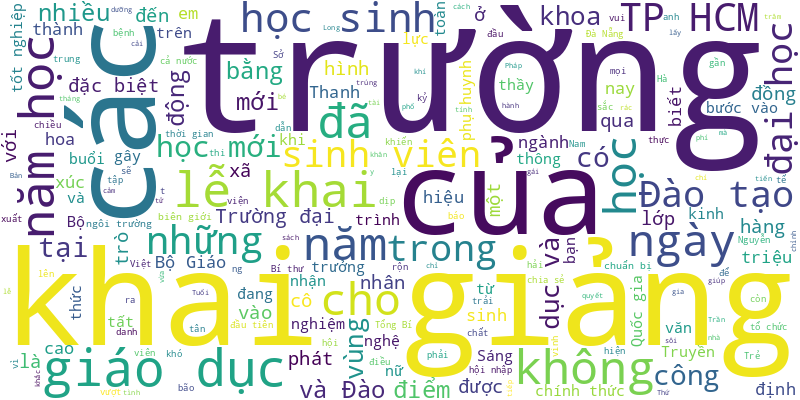
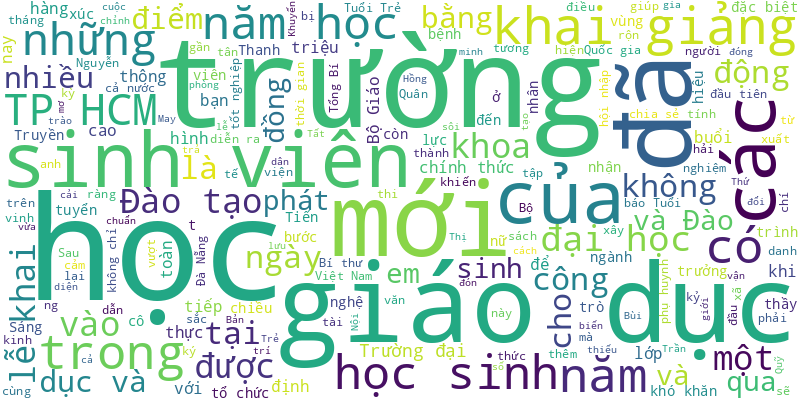
🍀 = 30%

diff --git a/README.md b/README.md
@@ -1,6 +1,13 @@
 # Tuoi Tre RSS 
 
 ## Giáo dục 
+- Học sinh, sinh viên không chỉ được hỗ trợ tối thiểu 50% mức đóng mà còn hưởng nhiều quyền lợi khi chữa bệnh, có người được chi trả cả tỉ đồng.
+- Thông tin này được TS Bùi Hồng Quân - trưởng khoa giáo dục mầm non (Trường ĐH Sư phạm TP.HCM) - trả lời phóng viên báo Tuổi Trẻ tại buổi đón sinh viên K51 do khoa này tổ chức, chiều 7-9.
+- Sau hơn một tháng xét tuyển, ký túc xá Cỏ May (TP.HCM) vừa chính thức công bố danh sách 107 tân sinh viên có hoàn cảnh khó khăn được tiếp nhận hỗ trợ lưu trú và học tập trong năm học 2025-2026.
+- Tiến sĩ Bùi Thị Hồng Tiến - Giám đốc Quỹ Khuyến học - khuyến tài tỉnh Khánh Hòa - đã hàng chục năm vận động giúp đỡ học sinh, sinh viên khó khăn, tiếp thêm động lực để các bạn xây tiếp ước mơ.
+- Nội dung giáo dục giới tính, phòng chống xâm hại trẻ em đã bị một số TikToker biến thành trào lưu giải trí phản cảm.
+- Thực tế diễn ra trong kỳ tuyển sinh đại học 2025 là minh chứng rõ ràng rằng một cuộc đổi mới nếu thiếu chuẩn bị và thực tiễn có thể dẫn đến thất bại toàn diện.
+- Cùng với từng bước thăng trầm của dân tộc, giáo dục Việt Nam luôn là điểm tựa để giữ lửa tri thức, hun đúc ý chí và kiến tạo tương lai.
 - Chiều 6-9, Công viên APEC (Đà Nẵng) sôi động với hàng trăm bạn trẻ và phụ huynh tham gia Ngày hội du học Nhật Bản tại Đà Nẵng.
 - Đổi mới giáo dục không chỉ là cải cách, chỉnh sửa mà phải có tính đột phá - Thứ trưởng Bộ Giáo dục và Đào tạo chia sẻ.
 - Hình ảnh danh sách học sinh khó khăn được nhận quà được trình chiếu công khai trong lễ khai trường 5-9 khiến nhiều phụ huynh bức xúc.
@@ -44,15 +51,30 @@
 - Khai giảng ngày 4-9 tại Bệnh viện Ung bướu TP.HCM, lớp học đặc biệt gây xúc động mạnh cho những người dõi theo các bé.
 - Công văn “không nhận hoa chúc mừng dưới mọi hình thức” tại lễ khai giảng của Sở Giáo dục và Đào tạo TP.HCM đang tạo nên làn sóng tranh luận trái chiều.
 - "Năm học mới em có cặp sách mới, vở mới và tiền mua quần áo mới. Em hứa sẽ học tập tốt, cuối năm có giấy khen".
-- Cô trò điểm trường Tăk Pổ, ngôi trường từng "gây bão" trên mạng xã hội với lễ khai giảng mộc mạc, đơn sơ năm 2019, đang tất bật trang trí trường lớp chuẩn bị cho lễ khai giảng.
-- Hòa chung không khí chuẩn bị lễ khai giảng đặc biệt năm học mới 2025-2026, ngày 4-9 trường học tại các xã vùng biên giới Việt - Lào của tỉnh Thanh Hóa tất bật chuẩn bị cơ sở vật chất, hướng dẫn học sinh các trò chơi vui tươi bước vào năm học mới.
-- Hàng ngàn học sinh, phụ huynh ở Hà Nội vừa được chui địa đạo và trải nghiệm các không gian hiểu biết, tử tế, trưởng thành, biết ơn, hạnh phúc và tỉnh thức, nhân dịp khai giảng năm học mới.
-- Ngày Võ Mộng Hoài Tâm biết tin mình đạt danh hiệu thủ khoa tốt nghiệp của Trường đại học Công nghiệp TP.HCM, cô gái nhỏ đến từ vùng đất biên giới Tân Hưng (Long An cũ) đã xúc động đến rơi nước mắt.
-- Ngày 4-9, TP.HCM khánh thành 5 ngôi trường mới ở nhiều xã vùng ven của TP với kinh phí mỗi ngôi trường lên đến hàng trăm tỉ đồng.
-- Sở Giáo dục và Đào tạo TP.HCM ra công văn “không nhận hoa chúc mừng dưới mọi hình thức” tại lễ khai giảng, Hiệp hội Hoa Đà Lạt kiến nghị vì cho rằng gây thiệt hại cho ngành hoa.
-- Trường vùng biên giới Đắk Lắk đang tập trung mọi nguồn lực chuẩn bị cho lễ khai giảng đặc biệt nhân dịp 80 năm ngày thành lập Bộ Quốc gia giáo dục.
 ![Edu](Edu.png)
 ## Thời Sự 
+- Rạng sáng 8-9, cường độ bão số 7 (Tapah) tiếp tục mạnh lên đầu cấp 11, giật cấp 13. Dự báo ngày hôm nay, bão đổ bộ vào Trung Quốc. Từ ngày mai, trung du và miền núi Bắc Bộ mưa lớn do hoàn lưu sau bão.
+- Gần 80.000 người nghỉ việc đã được thanh toán chế độ theo nghị định 178; Doanh nghiệp liên quan bà Trương Mỹ Lan tiếp đà lỗ lớn...
+- Hôm nay 8-9, thời tiết Bắc Bộ ngày nắng nhưng từ chiều tối mưa do ảnh hưởng bão số 7. Nam Bộ duy trì mưa rào, có nơi mưa to.
+- Clip cán bộ cảnh sát giao thông Công an TP.HCM hỗ trợ mở đường để xe chở thai phụ vỡ ối kịp đến bệnh viện lan truyền trên mạng xã hội nhận "cơn mưa lời khen".
+- Mạng xã hội đang lan truyền một đoạn clip người phụ nữ mặc áo blouse trắng tấn công khách hàng tại một phòng khám nha khoa (TP.HCM).
+- Nhiều nước đang áp dụng công nghệ theo dõi GPS để quản lý trẻ vị thành niên phạm pháp thay vì giam giữ, nhưng biện pháp này đang gây tranh cãi về hiệu quả và tác động tâm lý.
+- Theo kế hoạch, ngày 25-9 tới các đơn vị sẽ tổ chức bay hiệu chuẩn đường băng số 1 sân bay Long Thành, chuẩn bị cho chuyến bay kỹ thuật vào ngày 19-12 tới.
+- Mưa lớn nhiều ngày qua khiến nhiều khu vực tại tỉnh Đắk Lắk ngập sâu. Chính quyền địa phương, bộ đội lên phương án ứng phó để giảm nhẹ thiệt hại.
+- Mặc dù thời tiết không có mưa, song nước suối ở Nghệ An bỗng đổi màu vàng đục chưa rõ nguyên nhân khiến người dân lo lắng.
+- Nhân chứng cho hay chiếc ô tô con màu trắng, biển số Hà Nội sau vụ tai nạn liên hoàn đã bị kẹp giữa xe container và xe khách. Chiếc xe này bị "vò nát", biến dạng.
+- Tại dự thảo nghị định, Bộ Công an đã đề xuất các trường hợp cụ thể có thể áp dụng biện pháp giám sát điện tử.
+- Do ảnh hưởng của rìa xa hoàn lưu bão Tapah (bão số 7), ở vịnh Bắc Bộ và vùng biển phía đông của Bắc Bộ có thể xuất hiện dông, lốc và gió giật mạnh.
+- Hạn chế trang trí hoa tươi trong lễ khai giảng; Nhiều thắc mắc về cách nhận quà 100.000 đồng... đã thu hút nhiều bạn đọc phản hồi tuần qua.
+- Cát lại tràn xuống mặt đường gây khó khăn trong lưu thông trên cao tốc Vĩnh Hảo - Phan Thiết, đoạn qua xã Hàm Liêm, tỉnh Lâm Đồng.
+- Kể từ 1-9-2025, chính sách hỗ trợ phụ nữ sinh đủ 2 con trước 35 tuổi bước sang giai đoạn mới với mức hỗ trợ tăng lên 5 triệu đồng.
+- Ngày 7-9, tại Hà Nội, Đài Tiếng nói Việt Nam (VOV) long trọng tổ chức Lễ kỷ niệm 80 năm ngày thành lập đài.
+- Cơ hội chưa từng có nhưng thách thức lớn, đòi hỏi TP.HCM phải quyết đoán chọn nhà đầu tư, chọn đội ngũ cán bộ.
+- Trưa nay mây dông phát triển mạnh tại TP.HCM, bầu trời đen kịt, trời sắp đổ mưa to.
+- Nữ công chức Trung tâm phục vụ hành chính công phường B'Lao (tỉnh Lâm Đồng) bị đình chỉ công tác vì hành hung người đi đường.
+- Sau phản ảnh của Tuổi Trẻ về bãi rác lớn trước lối ra nhà ga T3 Tân Sơn Nhất, ngay sau đó nhà ga T3 đã dọn sạch. Nhưng nay rác lại xuất hiện.
+- Sau một vài ngày bớt mưa, trời nắng, tuần này thời tiết cả nước lại mưa dông, có nơi mưa to.
+- Dù dự báo bão Tapah đổ bộ vào Trung Quốc song cơ quan khí tượng cảnh báo hoàn lưu bão có thể gây ra một đợt mưa lớn diện rộng ở Bắc bộ.
 - Bộ Nội vụ đã có định hướng chi tiết 36 vị trí việc làm ở cấp xã gồm 8 vị trí lãnh đạo, quản lý và 28 vị trí chuyên môn, nghiệp vụ.
 - Tài xế xe container chạy sai làn đường, vượt đèn đỏ trên quốc lộ 13 bị camera người đi đường ghi lại đã bị xử phạt.
 - Tin tức đáng chú ý: Khởi tố điều tra vụ cơ sở không phép ở TP.HCM hút mỡ cho hơn 500 khách hàng; Tháng 10 xem xét lựa chọn phương thức đầu tư, nhà đầu tư đường sắt cao tốc; Phẫu thuật thành công ca nội soi đầu tiên tại đặc khu Côn Đảo - TP.HCM...
@@ -81,30 +103,9 @@
 - Ông Phạm Đức Ấn, chủ tịch UBND tỉnh Quảng Ninh, được điều động, chỉ định làm Phó bí thư Thành ủy Đà Nẵng để giới thiệu bầu làm Chủ tịch UBND TP Đà Nẵng.
 - Ông Lương Nguyễn Minh Triết - phó bí thư Thành ủy Đà Nẵng, chủ tịch UBND TP Đà Nẵng - được chỉ định giữ chức Bí thư Thành ủy Đà Nẵng.
 - Do gần với dải hội tụ nhiệt đới nối với áp thấp nhiệt đới trên Biển Đông, nên hôm nay các tỉnh Đông Nam Bộ, TP.HCM có mưa to nhiều hơn miền Tây.
-- Thứ trưởng Bộ Nông nghiệp và Môi trường Lê Minh Ngân được Ban Bí thư điều động, chỉ định giữ chức Phó bí thư thường trực Tỉnh ủy Lai Châu.
-- Lũ lớn từ thượng nguồn đổ về đột ngột làm chết hàng chục con trâu, bò người dân cột ven con suối ở xã Tây Sơn, tỉnh Đắk Lắk.
-- Nhiều bạn đọc bức xúc trước cảnh lòng đường, vỉa hè bị biến thành chợ khiến giao thông hỗn loạn, phố xá nhếch nhác.
-- UBND TP.HCM đã có quyết định thành lập Trung tâm Phát triển quỹ đất TP.HCM, là đơn vị sự nghiệp trực thuộc UBND TP.HCM.
-- Dự báo tối 6-9, áp thấp nhiệt đới trên Biển Đông sẽ mạnh lên thành bão Tapah (bão số 7) và cường độ cực đại của bão trên biển có thể đạt cấp 10, giật cấp 13.
-- Công ty chuyên sản xuất bao bì trên đường Phạm Văn Sáng, xã Bà Điểm (TP.HCM) bất ngờ bốc cháy, nhiều tài sản bị thiêu rụi.
-- Ngày 6-9, Chi cục Kiểm lâm TP.HCM đã phối hợp địa phương và người dân bắt được con vượn quý hiếm xuất hiện tại khu vực phía sau nhà người dân ở ấp 38, xã Tân Nhựt, TP.HCM.
-- Một bé trai 4 tuổi ở Nghệ An thấy em họ ngã xuống mương nước đã nhanh trí chạy vào nhà thông báo cho người thân ra cứu.
-- Dự án thành phần 3 (đường cao tốc) thuộc dự án đường vành đai 4 - vùng thủ đô sẽ góp phần giảm tải phương tiện liên tỉnh đi qua nội đô, nhất là trên tuyến vành đai 3 vốn đã quá tải.
-- Tổng Bí thư Tô Lâm yêu cầu vận dụng sáng tạo khoa học công nghệ quân sự tiên tiến trên thế giới, đưa nền khoa học và nghệ thuật quân sự Việt Nam phát triển lên tầm cao mới.
-- Hàng chục dự án nhà ở xã hội vừa được khởi công xây dựng, mở bán tại Hà Nội đang mở cơ hội tiếp cận nhà ở cho người thu nhập thấp, giúp họ sớm hoàn thành giấc mơ an cư.
-- Sáng 6-9, tại Hà Nội, Quân ủy Trung ương - Bộ Quốc phòng tổ chức trọng thể Lễ kỷ niệm 80 năm Ngày truyền thống và đón nhận danh hiệu Anh hùng Lực lượng vũ trang nhân dân.
-- Sáng nay 6-9, áp thấp nhiệt đới mạnh lên cấp 7 (50-61km/h), giật cấp 9. Dự báo ngày và đêm nay (6-9), áp thấp nhiệt đới có khả năng mạnh lên thành bão số 7.
-- Sáng 6-9, cơ quan chức năng phường Thạnh Mỹ Tây (thuộc quận Bình Thạnh cũ, TP.HCM) kiểm tra bất ngờ hai tuyến đường Ung Văn Khiêm, Nguyễn Gia Trí, xử phạt hàng chục trường hợp lấn chiếm vỉa hè.
-- Đó là chỉ đạo của Thủ tướng Phạm Minh Chính khi chủ trì phiên họp Chính phủ thường kỳ tháng 8 ngày 6-9.
-- Trận mưa lớn trong đêm đã khiến hàng trăm hộ dân ở vùng Đức Trọng - Lâm Đồng ngập lụt nặng.
-- Bộ trưởng Bộ Tư pháp Nguyễn Hải Ninh cho biết năm 2025, một số đại án chưa có tiền lệ được đưa ra xét xử và có hiệu lực thi hành như vụ Vạn Thịnh Phát, FLC.
-- Công ty TNHH Dự án Hồ Tràm và Masterise Group đều đã có văn bản đề xuất UBND TP.HCM làm dự án cao tốc Hồ Tràm - sân bay Long Thành dài 42km, với tổng mức đầu tư khoảng 20.000 tỉ đồng.
-- Bộ Nội vụ đề nghị các bộ, ban, ngành, địa phương báo cáo kết quả thực hiện chính sách, chế độ đối với cán bộ, công chức theo nghị định 178, 67.
-- Hàng chục hộ dân tại một khu gia đình quân nhân ở Đà Nẵng thấp thỏm vì nguy cơ phải nộp tiền sử dụng đất gấp sáu lần do bị áp giá theo thời điểm giá cao, chưa kể tiền phạt chậm nộp.
-- Hôm nay 6-9, thời tiết cả nước đã giảm mưa, nhiều nơi nắng nóng. Biển Đông có vùng áp thấp khả năng thành áp thấp nhiệt đới.
-- Một số tin tức đáng chú ý: Có 52 doanh nghiệp có vốn hóa hơn 1 tỉ USD trên HoSE; Gần 124 triệu hồ sơ khách hàng cá nhân đã đối chiếu khuôn mặt; Xuất siêu 8 tháng gần 14 tỉ USD; Thu hồi 74 số công bố tiêu chuẩn thiết bị y tế loại A, B...
 ![New](News.png)
 ## Nhịp sống số 
+- Các chương trình AI đạt được nhiều thành tựu ấn tượng, song nghiên cứu mới nhấn mạnh không nên cường điệu khả năng suy luận của AI.
 - Tội phạm mạng tại Hải Phòng đang diễn biến phức tạp, 8 tháng đầu năm lực lượng chức năng đã xử lý 122 vụ lừa đảo công nghệ cao.
 - Đối với nhiều website, đặc biệt là các trang sản phẩm, e-commerce, hình ảnh thường được người dùng yêu cầu nhiều nhất và chiếm nhiều băng thông hơn bất kỳ tài nguyên nào khác.
 - Big Tech đang tiếp tục rót hàng trăm tỉ USD vào trí tuệ nhân tạo, biến AI thành cuộc chơi lên đến nghìn tỉ đô. Người dùng sẽ thực sự được gì?
@@ -154,5 +155,4 @@
 - Nhiều người thường nhầm lẫn Deep Web với Dark Web, nhưng hai khái niệm này hoàn toàn khác nhau.
 - Trong thời đại số, mật khẩu chính là 'chìa khóa' bảo vệ cuộc sống trực tuyến. Nhưng đặt mật khẩu thế nào để không bị đoán ra? Dưới đây là những nguyên tắc quan trọng giúp bạn tự tạo 'mật khẩu an toàn nhất thế giới'.
 - Ngày 5-8, Công ty OpenAI đã ra mắt 2 mô hình trí tuệ nhân tạo (AI) mới cho phép người dùng tải về miễn phí và tùy chỉnh công nghệ, nhằm cạnh tranh với các sản phẩm tương tự của các đối thủ khác.
-- Thủ tướng Thụy Điển Ulf Kristersson hứng chỉ trích khi thừa nhận thường xuyên sử dụng AI như ChatGPT để hỗ trợ việc ra quyết định.
 ![life](Life.png)
